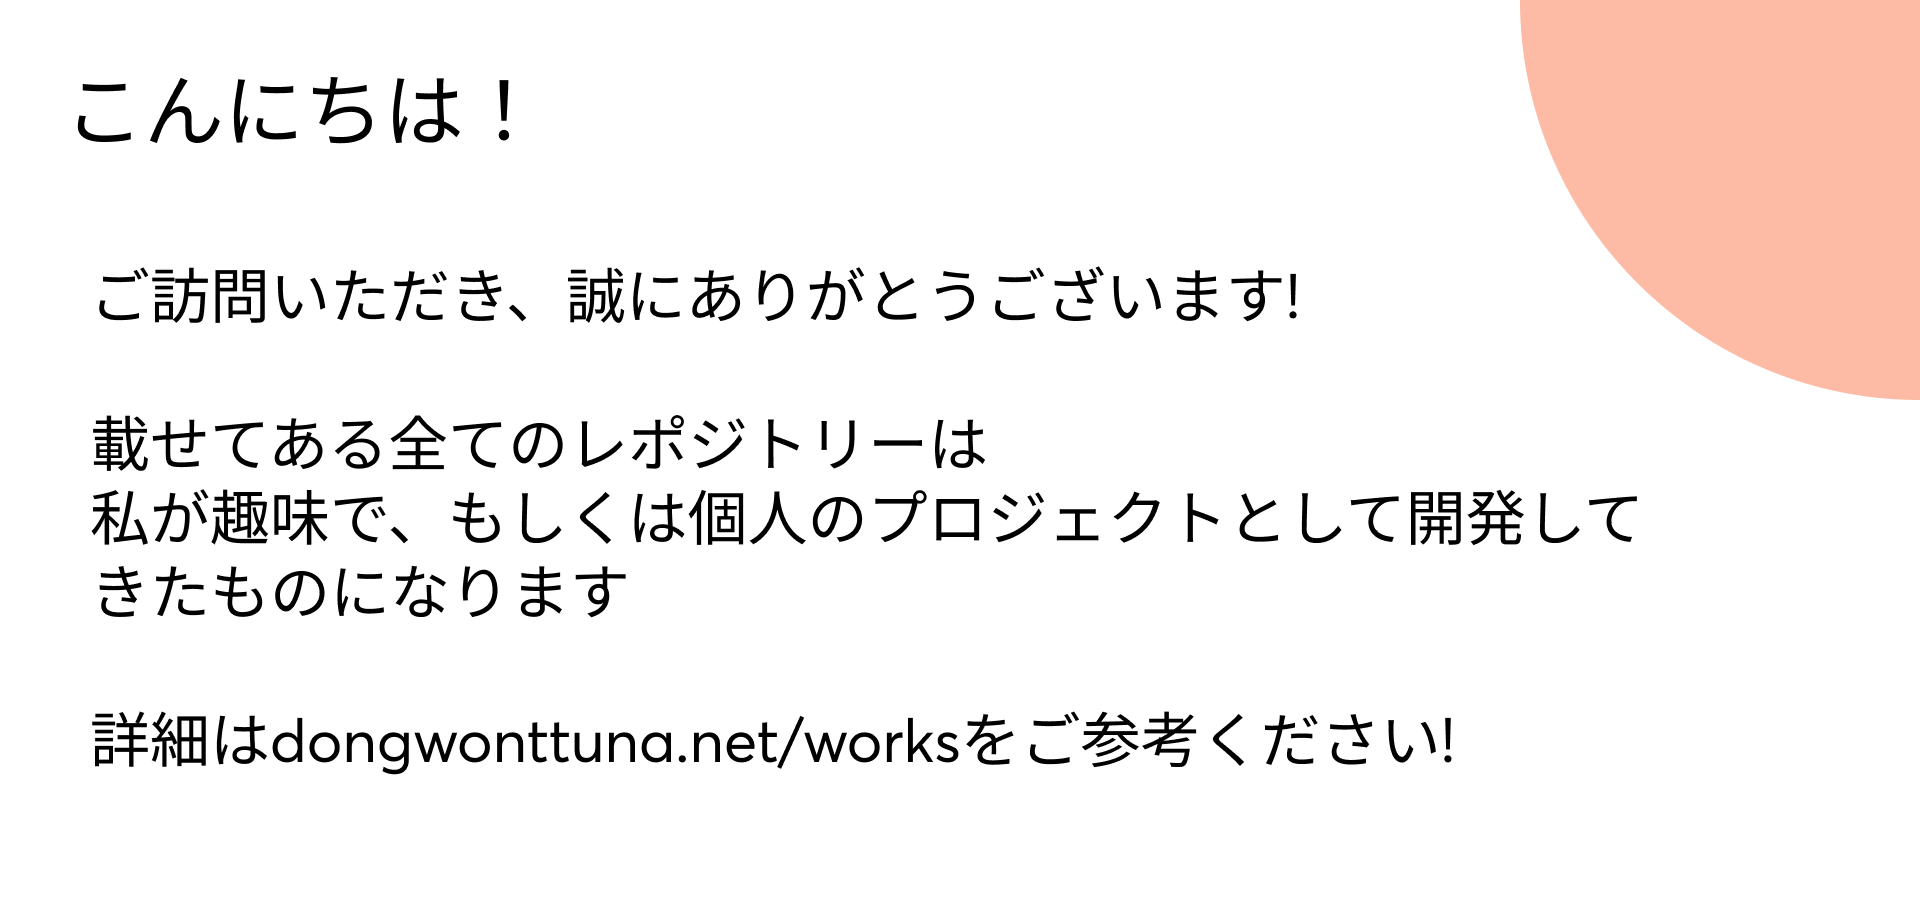
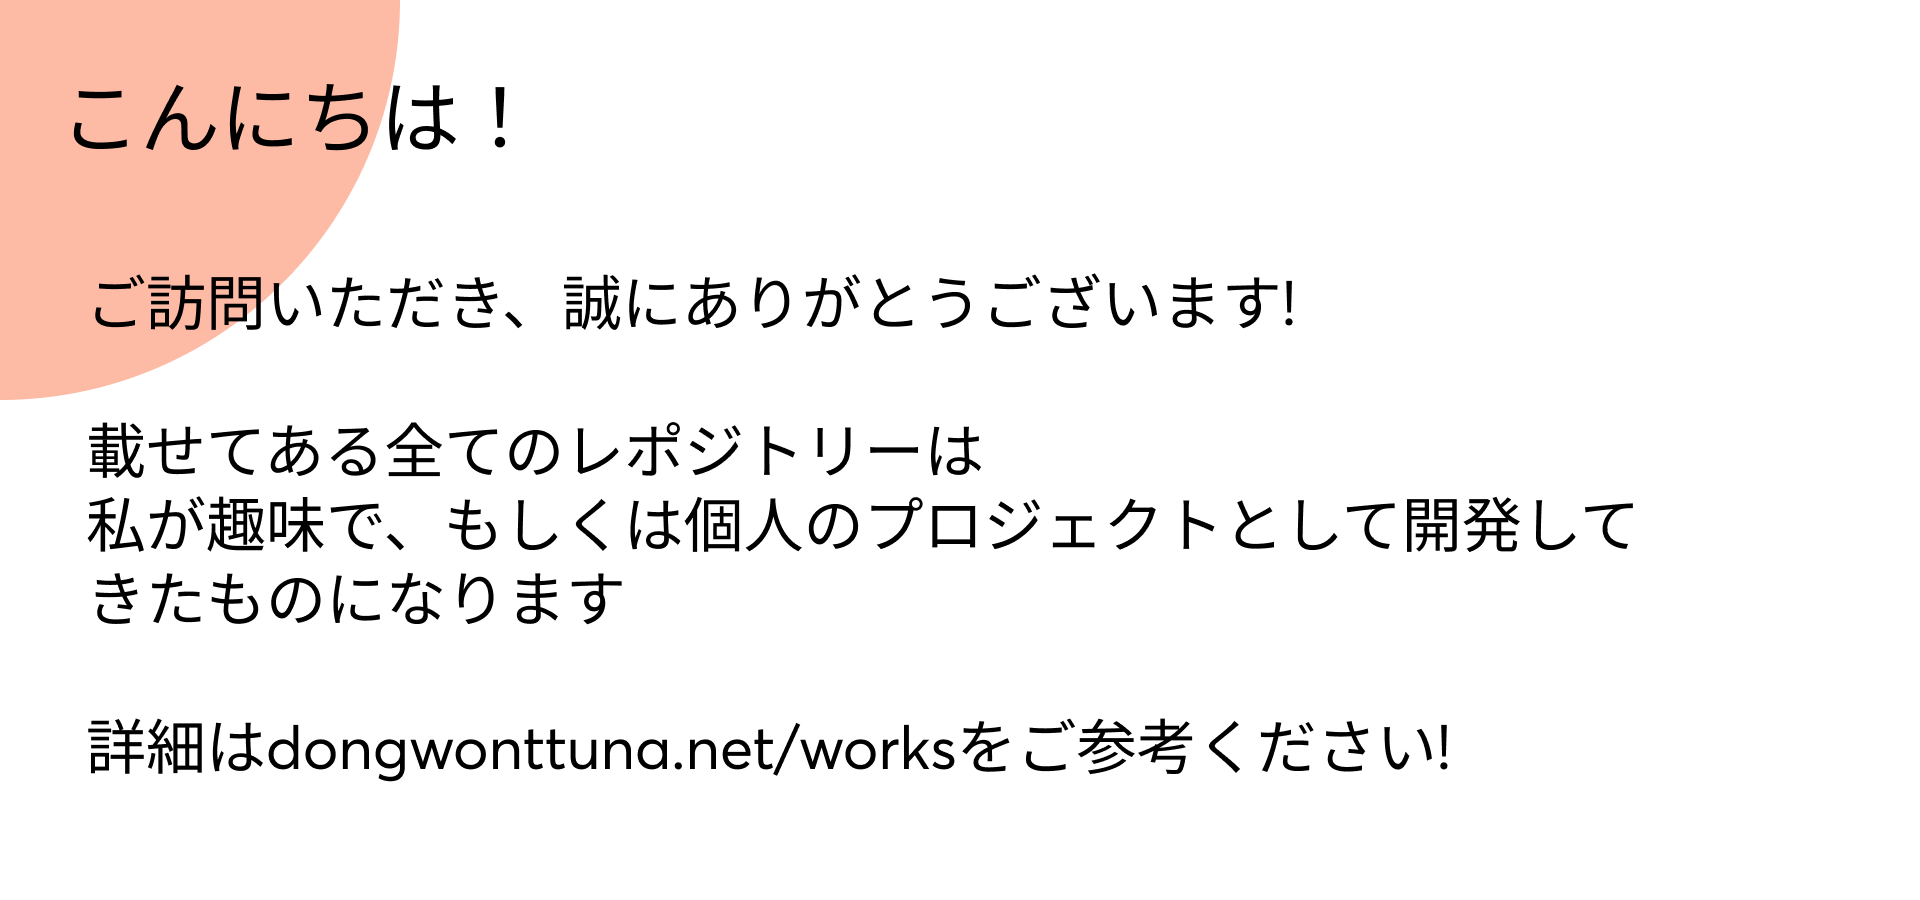
update

diff --git a/README.md b/README.md
@@ -1,6 +1,6 @@
 ![Top Banner](img/topBanner.png)
-<img src="/img/greetEnglish.png" alt="Greeting English Banner" float="left">
-<img src="/img/greetJapanese.png" alt="Greeting Japanese Banner" float="right">
+<img src="/img/greetEnglish.png" alt="Greeting English Banner" align="left">
+<img src="/img/greetJapanese.png" alt="Greeting Japanese Banner" align="right">
 
 [![Frontend Banner](/img/frontendWorks.png)](https://dongwontuna.net/works/frontend/)
 [![Backend Banner](/img/backendWorks.png)](https://dongwontuna.net/works/backend/)
